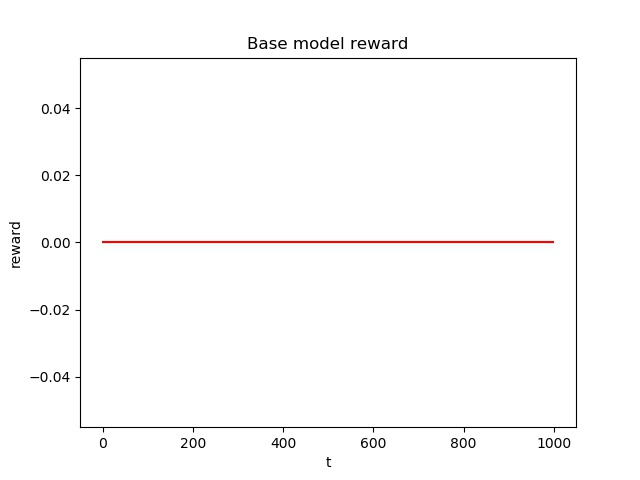
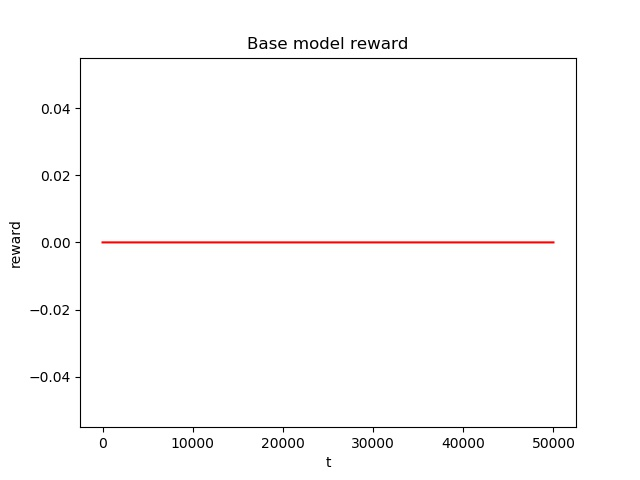
uploading plots

diff --git a/dqn_tensorflow.py b/dqn_tensorflow.py
@@ -99,7 +99,7 @@ def main():
     transfer_enviroment = make('standard', num_envs = 1)
     transfer_enviroment = CoinRunVecEnvWrapper(transfer_enviroment)
 
-    t = int(10e6)
+    t = int(5e4)
     with tf.Session():
         model = make_model()
 
